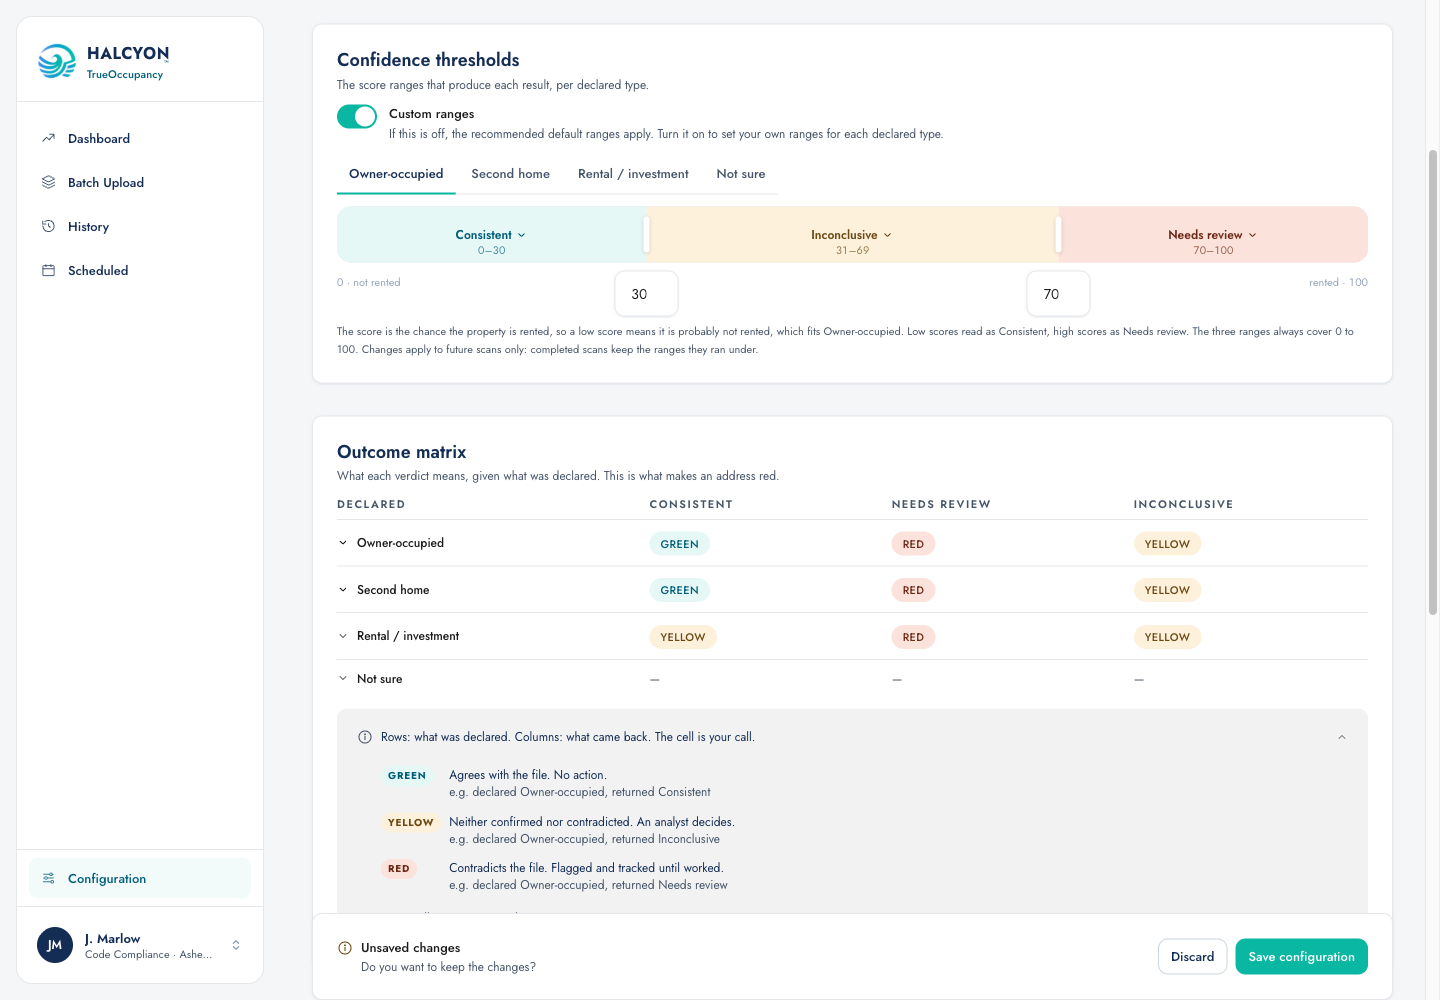
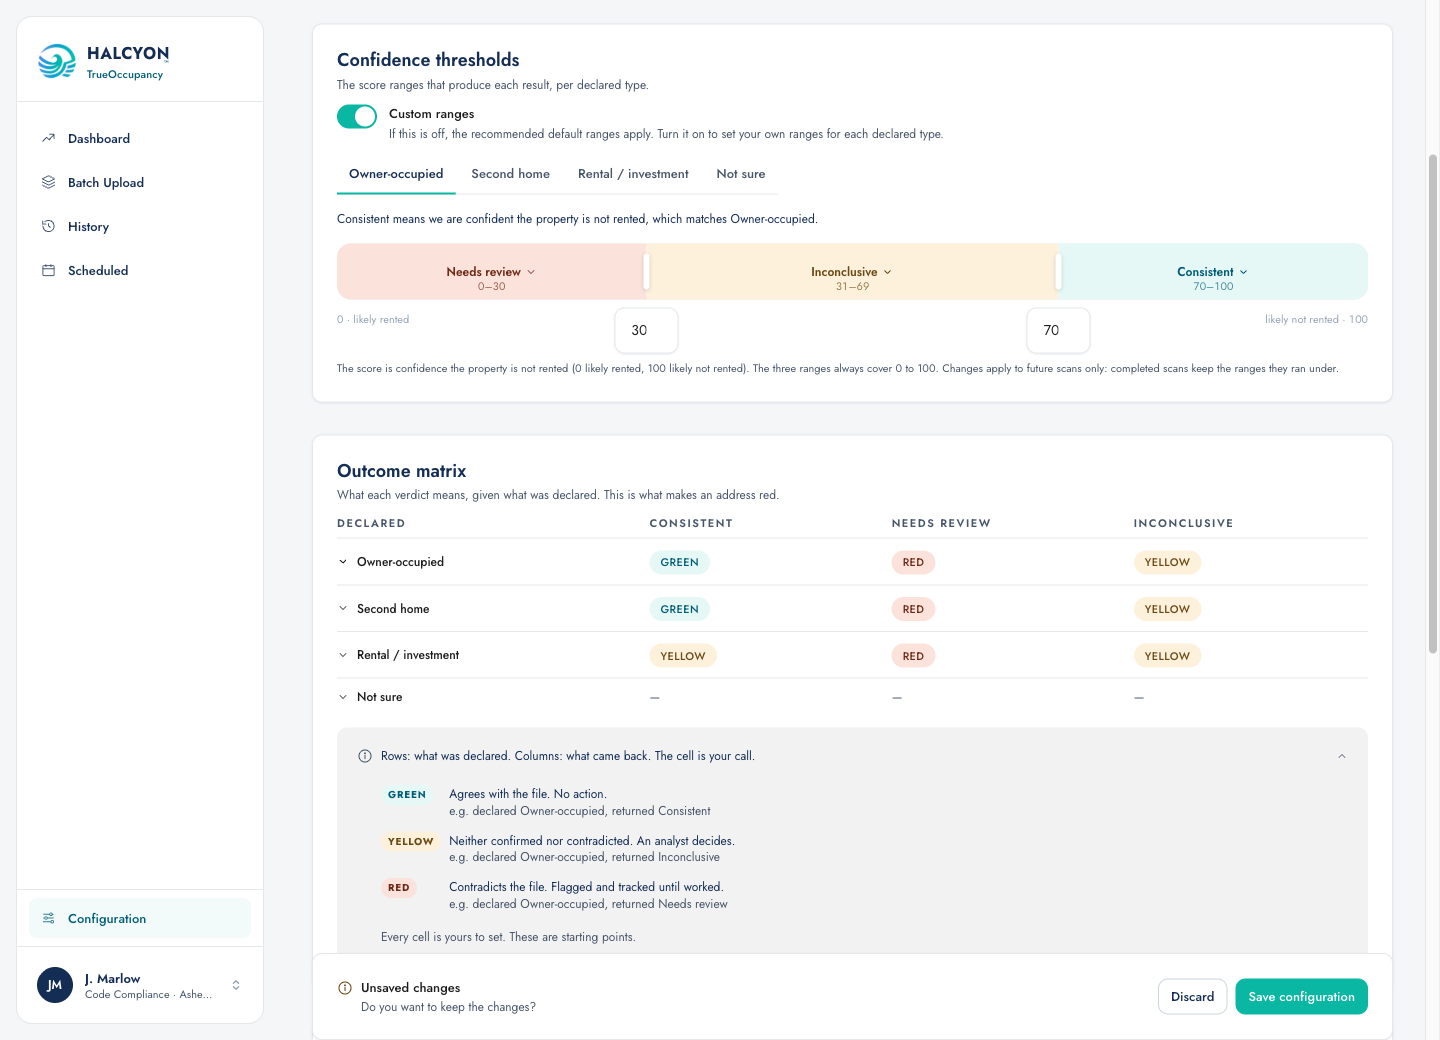
feat(config): re-arrange threshold defaults to confidence-not-rented axis + per-type gauge line (Trello #67)
Corrects the default arrangement per client direction (2026-09-01): the
score is confidence the property is NOT rented (0 likely rented, 100
likely not rented), matching the flipped confidence shown on results
('99% confident it is not rented').

- Owner-occupied and second-home: Consistent now sits HIGH (70-100) -
  a high confidence-not-rented matches the declaration. Needs review low.
- Rental: scale flips - Consistent LOW (0-30, looks rented). Needs
  review high.
- Not sure: inherits the default type (no scale of its own).

Adds a plain 'how it's gauged' line per declared type (bandGaugeLine),
stated in both the collapsible defaults panel and the custom editor,
plus a one-line axis definition, so the direction is unambiguous.
Scale ends relabelled to 'likely rented' / 'likely not rented'.

Screenshots refreshed for #67.

diff --git a/src/pages/ScanConfigScreen.tsx b/src/pages/ScanConfigScreen.tsx
@@ -92,19 +92,24 @@ const OUTCOME_KEYS = ['consistent', 'needsReview', 'inconclusive'];
  *  ranges are 0–b1, (b1+1)–(b2−1), b2–100. */
 type BandRow = { order: [string, string, string]; b1: number; b2: number };
 
-// Recommended defaults. Score = P(rented): 0 clearly not rented → 100 clearly
-// rented. The range that AGREES with the declaration is Consistent, the range
-// that CONTRADICTS it is Needs review, the ambiguous middle is Inconclusive —
-// and for a rental (rented is expected) that reading flips end for end.
+// Recommended defaults. The score is how confident we are the property is NOT
+// rented (matching the flipped confidence shown on results: "99% confident
+// it's not rented"): 0 = looks rented, 100 = confident not rented. So the range
+// that AGREES with the declaration is Consistent, the one that CONTRADICTS it
+// is Needs review, the ambiguous middle is Inconclusive. Owner-occupied and
+// second-home want NOT rented, so Consistent sits HIGH; a rental wants rented,
+// so its scale flips end for end and Consistent sits LOW.
 const DEFAULT_BAND_ROWS: Record<string, BandRow> = {
-  'owner-occupied': { order: ['consistent', 'inconclusive', 'needsReview'], b1: 30, b2: 70 },
-  'second-home': { order: ['consistent', 'inconclusive', 'needsReview'], b1: 30, b2: 70 },
-  // Reversed: not rented is the contradiction, rented is Consistent.
-  rental: { order: ['needsReview', 'inconclusive', 'consistent'], b1: 30, b2: 70 },
+  'owner-occupied': { order: ['needsReview', 'inconclusive', 'consistent'], b1: 30, b2: 70 },
+  'second-home': { order: ['needsReview', 'inconclusive', 'consistent'], b1: 30, b2: 70 },
+  // Flipped: high confidence-not-rented contradicts a rental (Needs review),
+  // low (looks rented) is Consistent.
+  rental: { order: ['consistent', 'inconclusive', 'needsReview'], b1: 30, b2: 70 },
   // Not sure has no declaration to agree with or contradict, so in Default
   // mode it inherits the org's default type rather than showing its own bar
-  // (see the section). This row only seeds its Custom bar if the user opts in.
-  'not-sure': { order: ['consistent', 'inconclusive', 'needsReview'], b1: 30, b2: 70 },
+  // (see the section). This row only seeds its Custom bar if the user opts in;
+  // it mirrors owner-occupied.
+  'not-sure': { order: ['needsReview', 'inconclusive', 'consistent'], b1: 30, b2: 70 },
 };
 
 /** The three ranges a row resolves to, in score order. */
@@ -114,6 +119,20 @@ function bandRowRanges(row: BandRow): { key: string; from: number; to: number }[
     { key: row.order[1], from: row.b1 + 1, to: row.b2 - 1 },
     { key: row.order[2], from: row.b2, to: 100 },
   ];
+}
+
+/** One clear line stating how a declared type is gauged: what a Consistent
+ *  (matching) result means for it. The score is confidence the property is not
+ *  rented (0 likely rented, 100 likely not rented), so a Consistent range in
+ *  the upper half reads as "confident not rented" and in the lower half as
+ *  "confident rented". Reads off the live row, so it stays true when the user
+ *  rearranges the bands in Custom mode. */
+function bandGaugeLine(intent: string, row: BandRow): string {
+  const cons = bandRowRanges(row).find((r) => r.key === 'consistent');
+  const notRentedEnd = (cons ? cons.from : 0) >= 50;
+  return notRentedEnd
+    ? `Consistent means we are confident the property is not rented, which matches ${OCC_INTENT_LABEL[intent]}.`
+    : `Consistent means we are confident the property is rented, which matches ${OCC_INTENT_LABEL[intent]}.`;
 }
 
 /** One declared type's control. The design is built around the point the
@@ -280,10 +299,10 @@ function OutcomeBandStrip({
           accessible edit path that mirrors the drag. */}
       <div className="relative h-9 mt-2">
         <span className="absolute left-0 top-1 font-sans text-micro tabular-nums" style={{ color: 'var(--ink-4)' }}>
-          0 · not rented
+          0 · likely rented
         </span>
         <span className="absolute right-0 top-1 font-sans text-micro tabular-nums" style={{ color: 'var(--ink-4)' }}>
-          rented · 100
+          likely not rented · 100
         </span>
         {handles.map((h) => (
           <span
@@ -339,38 +358,47 @@ function DefaultsInfo({ defaultTypeLabel }: { defaultTypeLabel: string }) {
       </button>
       {open && (
         <div id={bodyId} className="mt-stack pl-6 flex flex-col">
+          <p className="font-sans text-micro m-0 mb-1" style={{ color: 'var(--ink-3)' }}>
+            The score is confidence the property is not rented: 0 likely rented, 100 likely not rented.
+          </p>
           {OCC_INTENTS.map((intent: string) => {
             const isNotSure = intent === 'not-sure';
             const ranges = bandRowRanges(DEFAULT_BAND_ROWS[intent]);
             return (
               <div
                 key={intent}
-                className="grid gap-3 items-center border-t border-line py-2"
+                className="grid gap-3 items-start border-t border-line py-2.5"
                 style={{ gridTemplateColumns: '1.3fr 3fr' }}
               >
-                <span className="font-sans text-caption font-medium" style={{ color: 'var(--ink)' }}>
+                <span className="font-sans text-caption font-medium pt-0.5" style={{ color: 'var(--ink)' }}>
                   {OCC_INTENT_LABEL[intent]}
                 </span>
                 {isNotSure ? (
                   <span className="font-sans text-caption" style={{ color: 'var(--ink-3)' }}>
-                    Scored as your default type ({defaultTypeLabel}). No ranges of its own.
+                    Scored as your default type ({defaultTypeLabel}). No scale of its own.
                   </span>
                 ) : (
-                  <div className="flex flex-wrap gap-x-stack gap-y-stack-tight">
-                    {ranges.map((s, i) => {
-                      const meta = OUTCOME_META[s.key];
-                      return (
-                        <span key={i} className="inline-flex items-center gap-inline">
-                          <span className={`inline-block w-2 h-2 rounded-full bg-${meta.tone}`} aria-hidden />
-                          <span className="font-sans text-caption font-medium" style={{ color: 'var(--ink)' }}>
-                            {meta.label}
+                  <div>
+                    {/* How this type is gauged, then its ranges. */}
+                    <p className="font-sans text-micro m-0 mb-1" style={{ color: 'var(--ink-3)' }}>
+                      {bandGaugeLine(intent, DEFAULT_BAND_ROWS[intent])}
+                    </p>
+                    <div className="flex flex-wrap gap-x-stack gap-y-stack-tight">
+                      {ranges.map((s, i) => {
+                        const meta = OUTCOME_META[s.key];
+                        return (
+                          <span key={i} className="inline-flex items-center gap-inline">
+                            <span className={`inline-block w-2 h-2 rounded-full bg-${meta.tone}`} aria-hidden />
+                            <span className="font-sans text-caption font-medium" style={{ color: 'var(--ink)' }}>
+                              {meta.label}
+                            </span>
+                            <span className="font-sans text-caption tabular-nums" style={{ color: 'var(--ink-3)' }}>
+                              {s.from}–{s.to}
+                            </span>
                           </span>
-                          <span className="font-sans text-caption tabular-nums" style={{ color: 'var(--ink-3)' }}>
-                            {s.from}–{s.to}
-                          </span>
-                        </span>
-                      );
-                    })}
+                        );
+                      })}
+                    </div>
                   </div>
                 )}
               </div>
@@ -788,13 +816,7 @@ function ScanConfigScreen({
           {bandsCustom ? (
             (() => {
               const row = bandRows[editIntent];
-              const isNotSure = editIntent === 'not-sure';
-              const consistentLow = bandRows[editIntent].order.indexOf('consistent') === 0;
-              const scoreWhy = isNotSure
-                ? 'Not sure has no declaration to agree with or contradict. These ranges apply only if you score it in its own right.'
-                : consistentLow
-                ? `The score is the chance the property is rented, so a low score means it is probably not rented, which fits ${OCC_INTENT_LABEL[editIntent]}. Low scores read as Consistent, high scores as Needs review.`
-                : 'The score is the chance the property is rented, so a high score means it is probably rented, which fits a rental. High scores read as Consistent, low scores as Needs review.';
+              const gauge = bandGaugeLine(editIntent, row);
               return (
                 <>
                   {/* Four declared types as real tabs. */}
@@ -803,7 +825,12 @@ function ScanConfigScreen({
                     onChange={(v: string) => setEditIntent(v)}
                     items={OCC_INTENTS.map((i: string) => ({ value: i, label: OCC_INTENT_LABEL[i] }))}
                   />
-                  <div className="mt-stack-md">
+                  {/* How this type is gauged — stated above the bar so the rule
+                      is explicit before the ranges. */}
+                  <p className="font-sans text-caption m-0 mt-stack" style={{ color: 'var(--ink-2)' }}>
+                    {gauge}
+                  </p>
+                  <div className="mt-stack">
                     <OutcomeBandStrip
                       row={row}
                       onReassign={(i: number, k: string) => reassignSegment(editIntent, i, k)}
@@ -812,8 +839,9 @@ function ScanConfigScreen({
                     />
                   </div>
                   <p className="font-sans text-micro text-ink-3 leading-relaxed m-0 mt-stack">
-                    {scoreWhy} The three ranges always cover 0 to 100. Changes apply to future scans
-                    only: completed scans keep the ranges they ran under.
+                    The score is confidence the property is not rented (0 likely rented, 100 likely not
+                    rented). The three ranges always cover 0 to 100. Changes apply to future scans only:
+                    completed scans keep the ranges they ran under.
                   </p>
                 </>
               );
